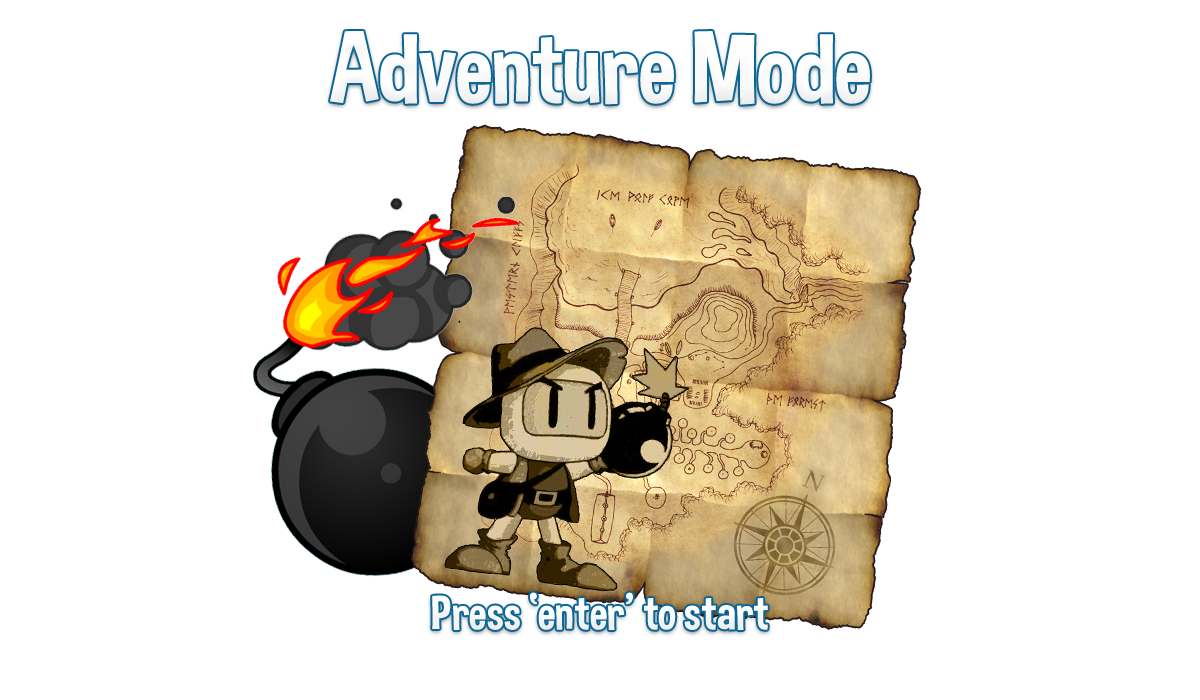
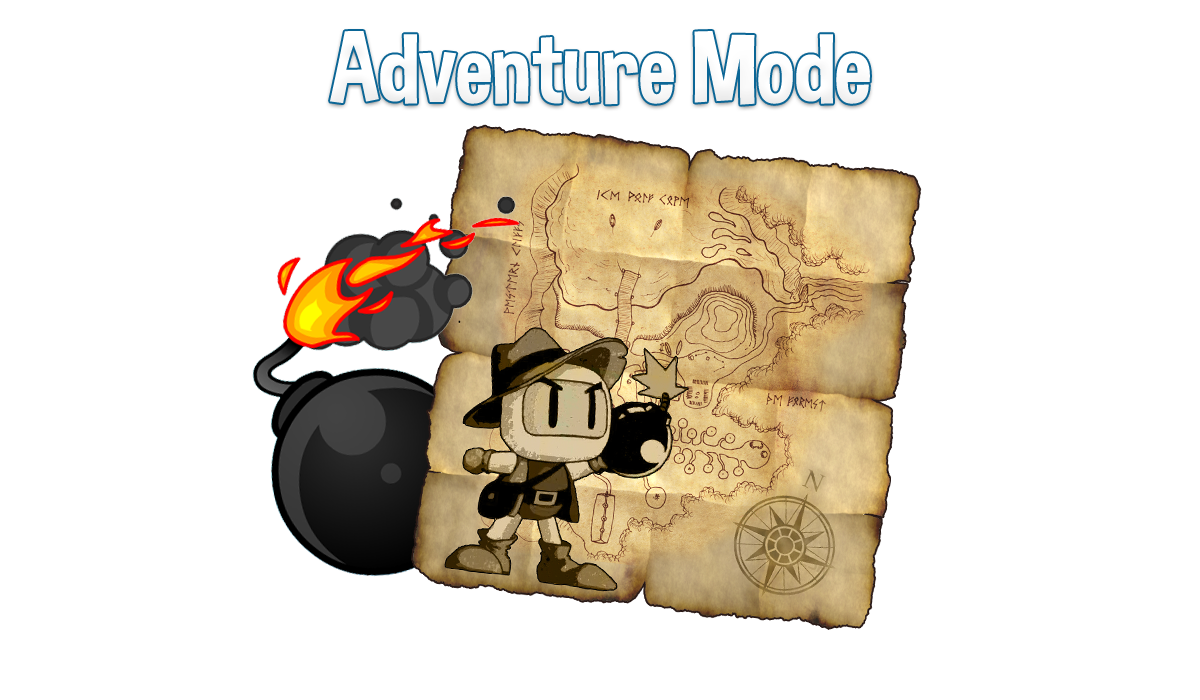
Creation d'une classe FadingTexture

Changed region(s): [[0.3392, 0.84, 0.6475, 0.93]]

diff --git a/srcs/states/Carrousel/FadingTexture.cpp b/srcs/states/Carrousel/FadingTexture.cpp
@@ -1,0 +1,67 @@
+//
+// FadingTexture.cpp for bomberman in /home/burg_l//Work/tek2/cpp/Bomberman
+//
+// Made by lois burg
+// Login   <burg_l@epitech.net>
+//
+// Started on  Fri Jun  1 16:59:59 2012 lois burg
+// Last update Fri Jun  1 17:15:17 2012 lois burg
+//
+
+#include <GL/gl.h>
+#include "ModelHandler.hh"
+#include "FadingTexture.hh"
+
+using namespace	Bomberman;
+
+FadingTexture::FadingTexture(const std::string& texture, int x, int y, float fadeTimer, float fadeValue)
+  : texture_(ModelHandler::get().getModel(texture)), x_(x), y_(y),
+    alpha_(1.0f), fadeTimer_(fadeTimer), fadeValue_(fadeValue),
+    lastTime_(-1), fadeOutEnded_(false)
+{
+}
+
+FadingTexture::~FadingTexture()
+{
+}
+
+void	FadingTexture::update(gdl::GameClock& clock)
+{
+  float	now = clock.getTotalGameTime();
+
+  if (lastTime_ == -1)
+    lastTime_ = now;
+  if (now - lastTime_ >= fadeTimer_)
+    {
+      fadeOut();
+      fadeIn();
+      lastTime_ = now;
+    }
+}
+
+void	FadingTexture::draw(void)
+{
+  glTexEnvf(GL_TEXTURE_ENV, GL_TEXTURE_ENV_MODE, GL_MODULATE);
+  glColor4f(1.0f, 1.0f, 1.0f, alpha_);
+  glPushMatrix();
+  glTranslated(x_, y_, 0);
+  texture_.draw();
+  glPopMatrix();
+  glTexEnvf(GL_TEXTURE_ENV, GL_TEXTURE_ENV_MODE, GL_REPLACE);
+}
+
+void	FadingTexture::fadeOut(void)
+{
+  if (!fadeOutEnded_)
+    alpha_ -= fadeValue_;
+  if (alpha_ <= 0)
+    fadeOutEnded_ = true;
+}
+
+void	FadingTexture::fadeIn(void)
+{
+  if (fadeOutEnded_)
+    alpha_ += fadeValue_;
+  if (alpha_ >= 1)
+    fadeOutEnded_ = false;
+}

diff --git a/srcs/states/Carrousel/AdventureGame.cpp b/srcs/states/Carrousel/AdventureGame.cpp
@@ -5,7 +5,7 @@
 // Login   <burg_l@epitech.net>
 //
 // Started on  Wed May 30 16:03:03 2012 lois burg
-// Last update Thu May 31 10:51:25 2012 lois burg
+// Last update Fri Jun  1 17:17:08 2012 lois burg
 //
 
 #include "AdventureGame.hh"
@@ -15,7 +15,7 @@
 using namespace	Bomberman;
 
 AdventureGame::AdventureGame()
-  : returnHit_(false)
+  : returnHit_(false), pressEnter_("press-enter", 640, 140)
 {
 }
 
@@ -26,7 +26,7 @@ AdventureGame::~AdventureGame()
 void	AdventureGame::update(gdl::Input& input, gdl::GameClock& gClock, StatesManager *sMg, CarrouselHandler * cH)
 {
   (void)cH;
-  (void)gClock;
+  pressEnter_.update(gClock);
   if (input.isKeyDown(gdl::Keys::Return) && !returnHit_)
     sMg->pushState(new AdventureState);
   returnHit_ = input.isKeyDown(gdl::Keys::Return);
@@ -34,4 +34,5 @@ void	AdventureGame::update(gdl::Input& input, gdl::GameClock& gClock, StatesMana
 
 void	AdventureGame::draw(void)
 {
+  pressEnter_.draw();
 }

diff --git a/srcs/states/Carrousel/QuickGame.cpp b/srcs/states/Carrousel/QuickGame.cpp
@@ -5,7 +5,7 @@
 // Login   <burg_l@epitech.net>
 //
 // Started on  Wed May 30 16:03:03 2012 lois burg
-// Last update Thu May 31 10:49:55 2012 lois burg
+// Last update Fri Jun  1 17:12:03 2012 lois burg
 //
 
 #include "QuickGame.hh"
@@ -17,7 +17,7 @@
 using namespace	Bomberman;
 
 QuickGame::QuickGame()
-  : returnHit_(false)
+  : returnHit_(false), pressEnter_("press-enter", 640, 140)
 {
 }
 
@@ -29,7 +29,7 @@ void	QuickGame::update(gdl::Input& input, gdl::GameClock& gClock, StatesManager 
 {
   static bool sHit;
 
-  (void)gClock;
+  pressEnter_.update(gClock);
   if (input.isKeyDown(gdl::Keys::Comma) && !sHit)
     cH->setArrowFocus(!cH->getArrowFocusLeft());
   if (input.isKeyDown(gdl::Keys::Return) && !returnHit_)
@@ -49,4 +49,5 @@ void	QuickGame::update(gdl::Input& input, gdl::GameClock& gClock, StatesManager 
 
 void	QuickGame::draw(void)
 {
+  pressEnter_.draw();
 }

diff --git a/srcs/states/ClientState.cpp b/srcs/states/ClientState.cpp
@@ -5,7 +5,7 @@
 // Login   <burg_l@epitech.net>
 //
 // Started on  Fri May 25 17:11:55 2012 lois burg
-// Last update Fri Jun  1 15:38:21 2012 lois burg
+// Last update Fri Jun  1 15:56:31 2012 lois burg
 //
 
 #include <iostream>
@@ -119,6 +119,7 @@ void	ClientState::checkEndGame(StatesManager *mngr, int nbPlayersAlive, int nbMo
   int		i = 0;
   Player	*plyr = NULL;
 
+  std::cout << "Client checkEnd" << std::endl;
   if (readyUp_ <= 0)
     {
       if (nbPlayersAlive == 1 && !nbMonsters)
@@ -127,6 +128,7 @@ void	ClientState::checkEndGame(StatesManager *mngr, int nbPlayersAlive, int nbMo
 	    i++;
 	  if (plyr)
 	    winnerId_ = i;
+	  std::cout << "WIN" << std::endl;
 	  win(mngr);
 	}
       else if (!nbPlayersAlive)

diff --git a/srcs/states/ServerState.cpp b/srcs/states/ServerState.cpp
@@ -5,7 +5,7 @@
 // Login   <burg_l@epitech.net>
 //
 // Started on  Tue May 22 17:59:10 2012 lois burg
-// Last update Fri Jun  1 15:37:53 2012 lois burg
+// Last update Fri Jun  1 15:56:29 2012 lois burg
 //
 
 #include <iostream>
@@ -154,6 +154,7 @@ void	ServerState::checkEndGame(StatesManager *mngr, int nbPlayersAlive, int nbMo
   int		i = 0;
   Player	*plyr = NULL;
 
+  std::cout << "Server checkEnd" << std::endl;
   if (readyUp_ <= 0)
     {
       if (nbPlayersAlive == 1 && !nbMonsters)
@@ -162,6 +163,7 @@ void	ServerState::checkEndGame(StatesManager *mngr, int nbPlayersAlive, int nbMo
 	    i++;
 	  if (plyr)
 	    winnerId_ = i;
+	  std::cout << "WIN" << std::endl;
 	  win(mngr);
 	}
       else if (!nbPlayersAlive)

diff --git a/srcs/states/PlayState.cpp b/srcs/states/PlayState.cpp
@@ -5,7 +5,7 @@
 // Login   <burg_l@epitech.net>
 //
 // Started on  Wed May  2 18:00:30 2012 lois burg
-// Last update Thu May 31 16:41:42 2012 lois burg
+// Last update Fri Jun  1 15:54:28 2012 lois burg
 //
 
 #include <iostream>
@@ -152,7 +152,7 @@ void  PlayState::update(StatesManager *sMg)
     }
   else if (!sMg->getInput().isKeyDown(gdl::Keys::Escape))
     escapeDisable_ = false;
-  PlayState::checkEndGame(sMg, nbPlayers, nbMonsters);
+  checkEndGame(sMg, nbPlayers, nbMonsters);
 }
 
 void	PlayState::win(StatesManager *mngr)

diff --git a/srcs/game/Player.cpp b/srcs/game/Player.cpp
@@ -5,7 +5,7 @@
 // Login   <burg_l@epitech.net>
 //
 // Started on  Thu May  3 12:08:17 2012 lois burg
-// Last update Fri Jun  1 15:19:34 2012 lois burg
+// Last update Fri Jun  1 15:41:30 2012 lois burg
 //
 
 #include <algorithm>
@@ -333,7 +333,6 @@ Online::Packet	Player::pack(gdl::Input& keys)
 {
   Online::Packet	p;
 
-  std::cout << "pack : " << id_ << " " << this << std::endl;
   p.id = id_;
   p.up = keys.isKeyDown(conf_.get(K_UP, id_));
   p.down = keys.isKeyDown(conf_.get(K_DOWN, id_));

diff --git a/srcs/graphics/ModelHandler.cpp b/srcs/graphics/ModelHandler.cpp
@@ -95,6 +95,8 @@ void      ModelHandler::preload()
         "bg-joingame");
   storeModel(new flatTexture("Ressources/Images/Menu/bg-keybind.png"),
         "bg-keybind");
+  storeModel(new flatTexture("Ressources/Images/Menu/press-enter.png"),
+        "press-enter");
 
   storeModel(new flatTexture("Ressources/Images/Menu/keybind-overlay.png"),
         "keybind-overlay");
